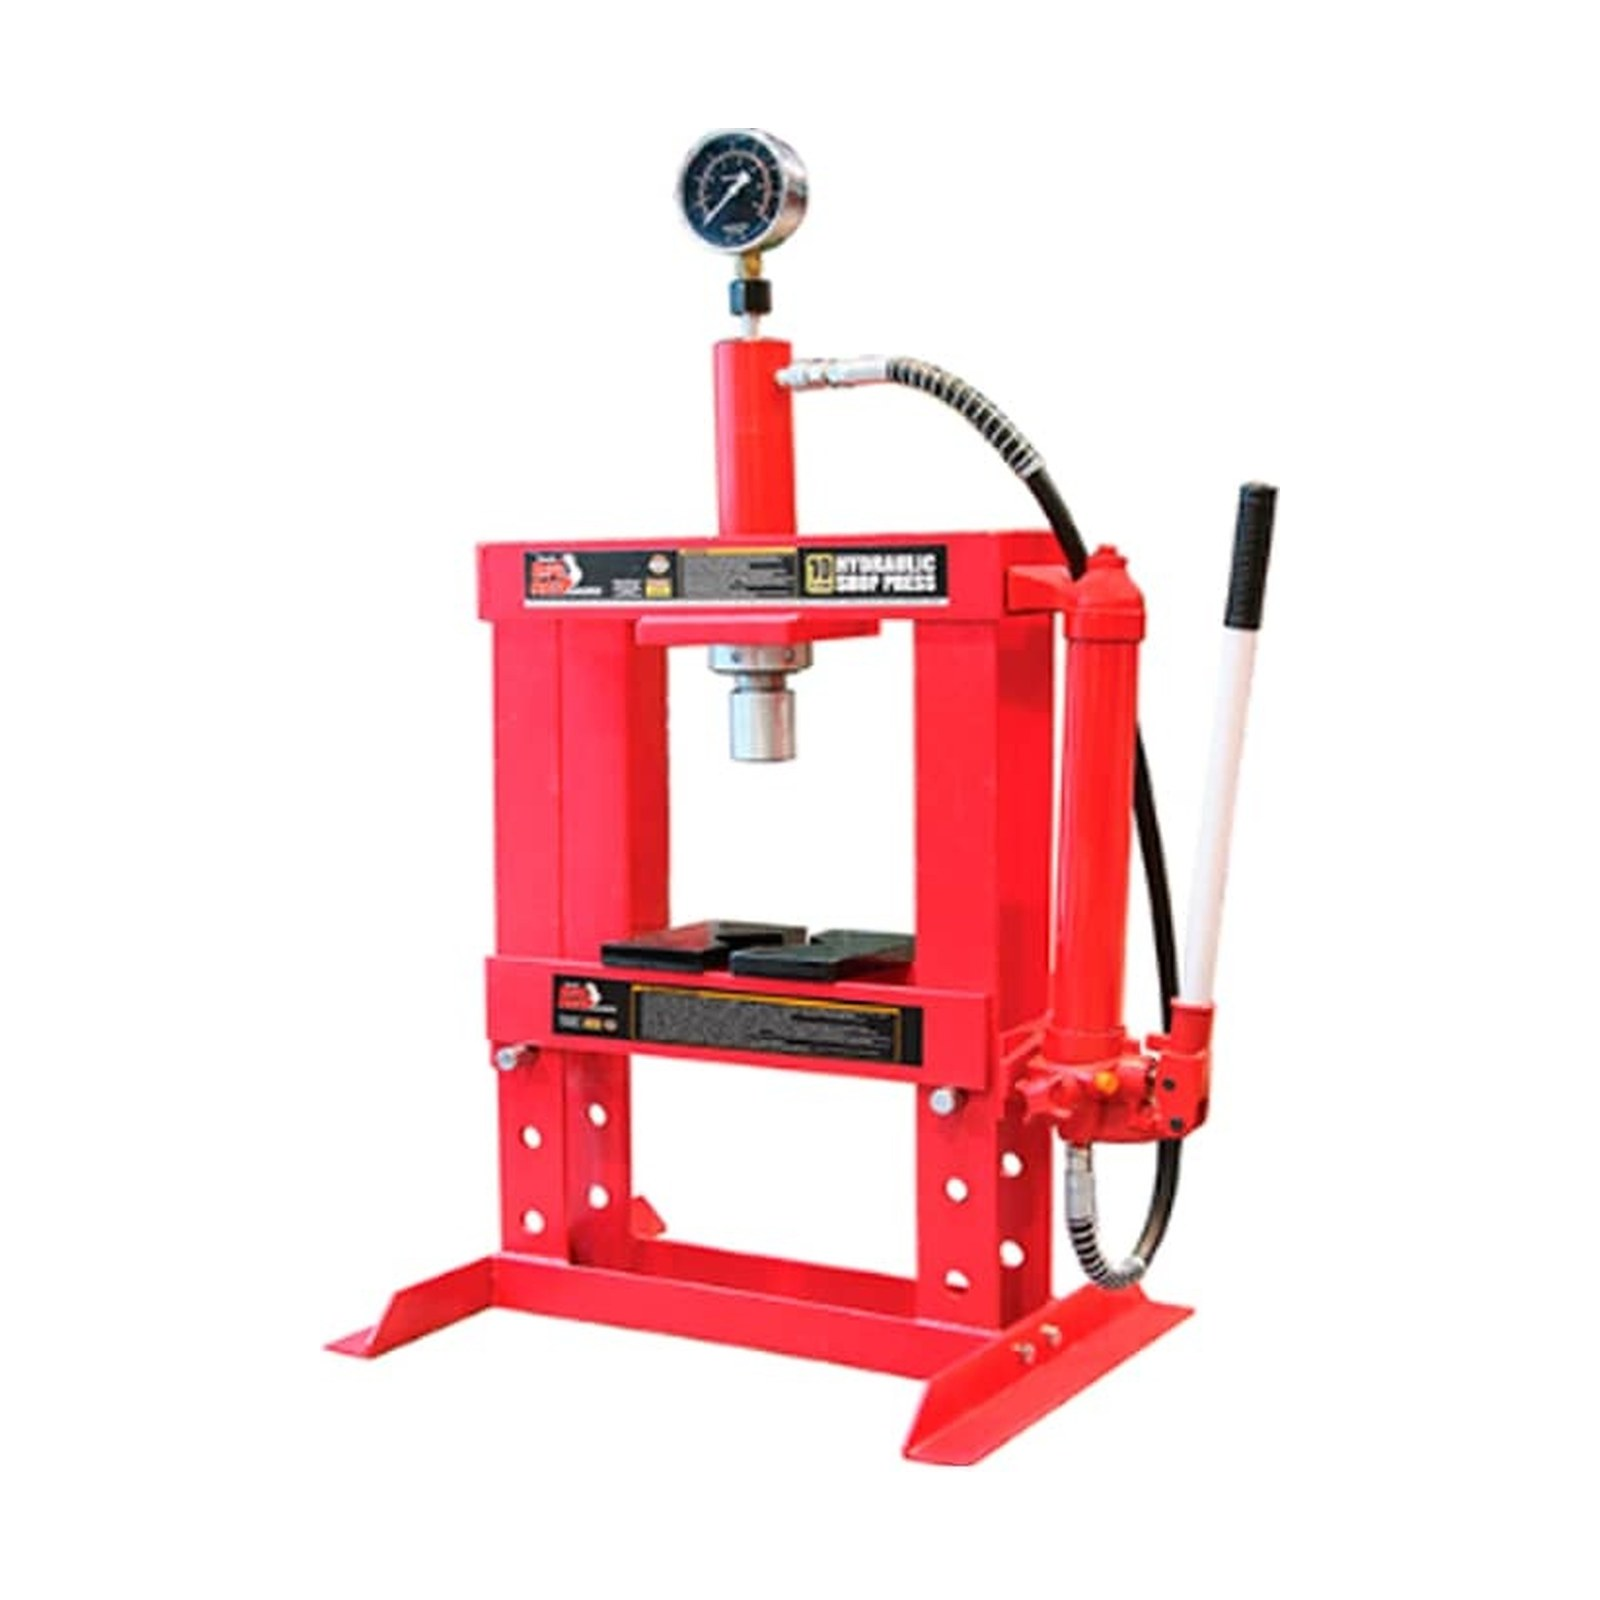
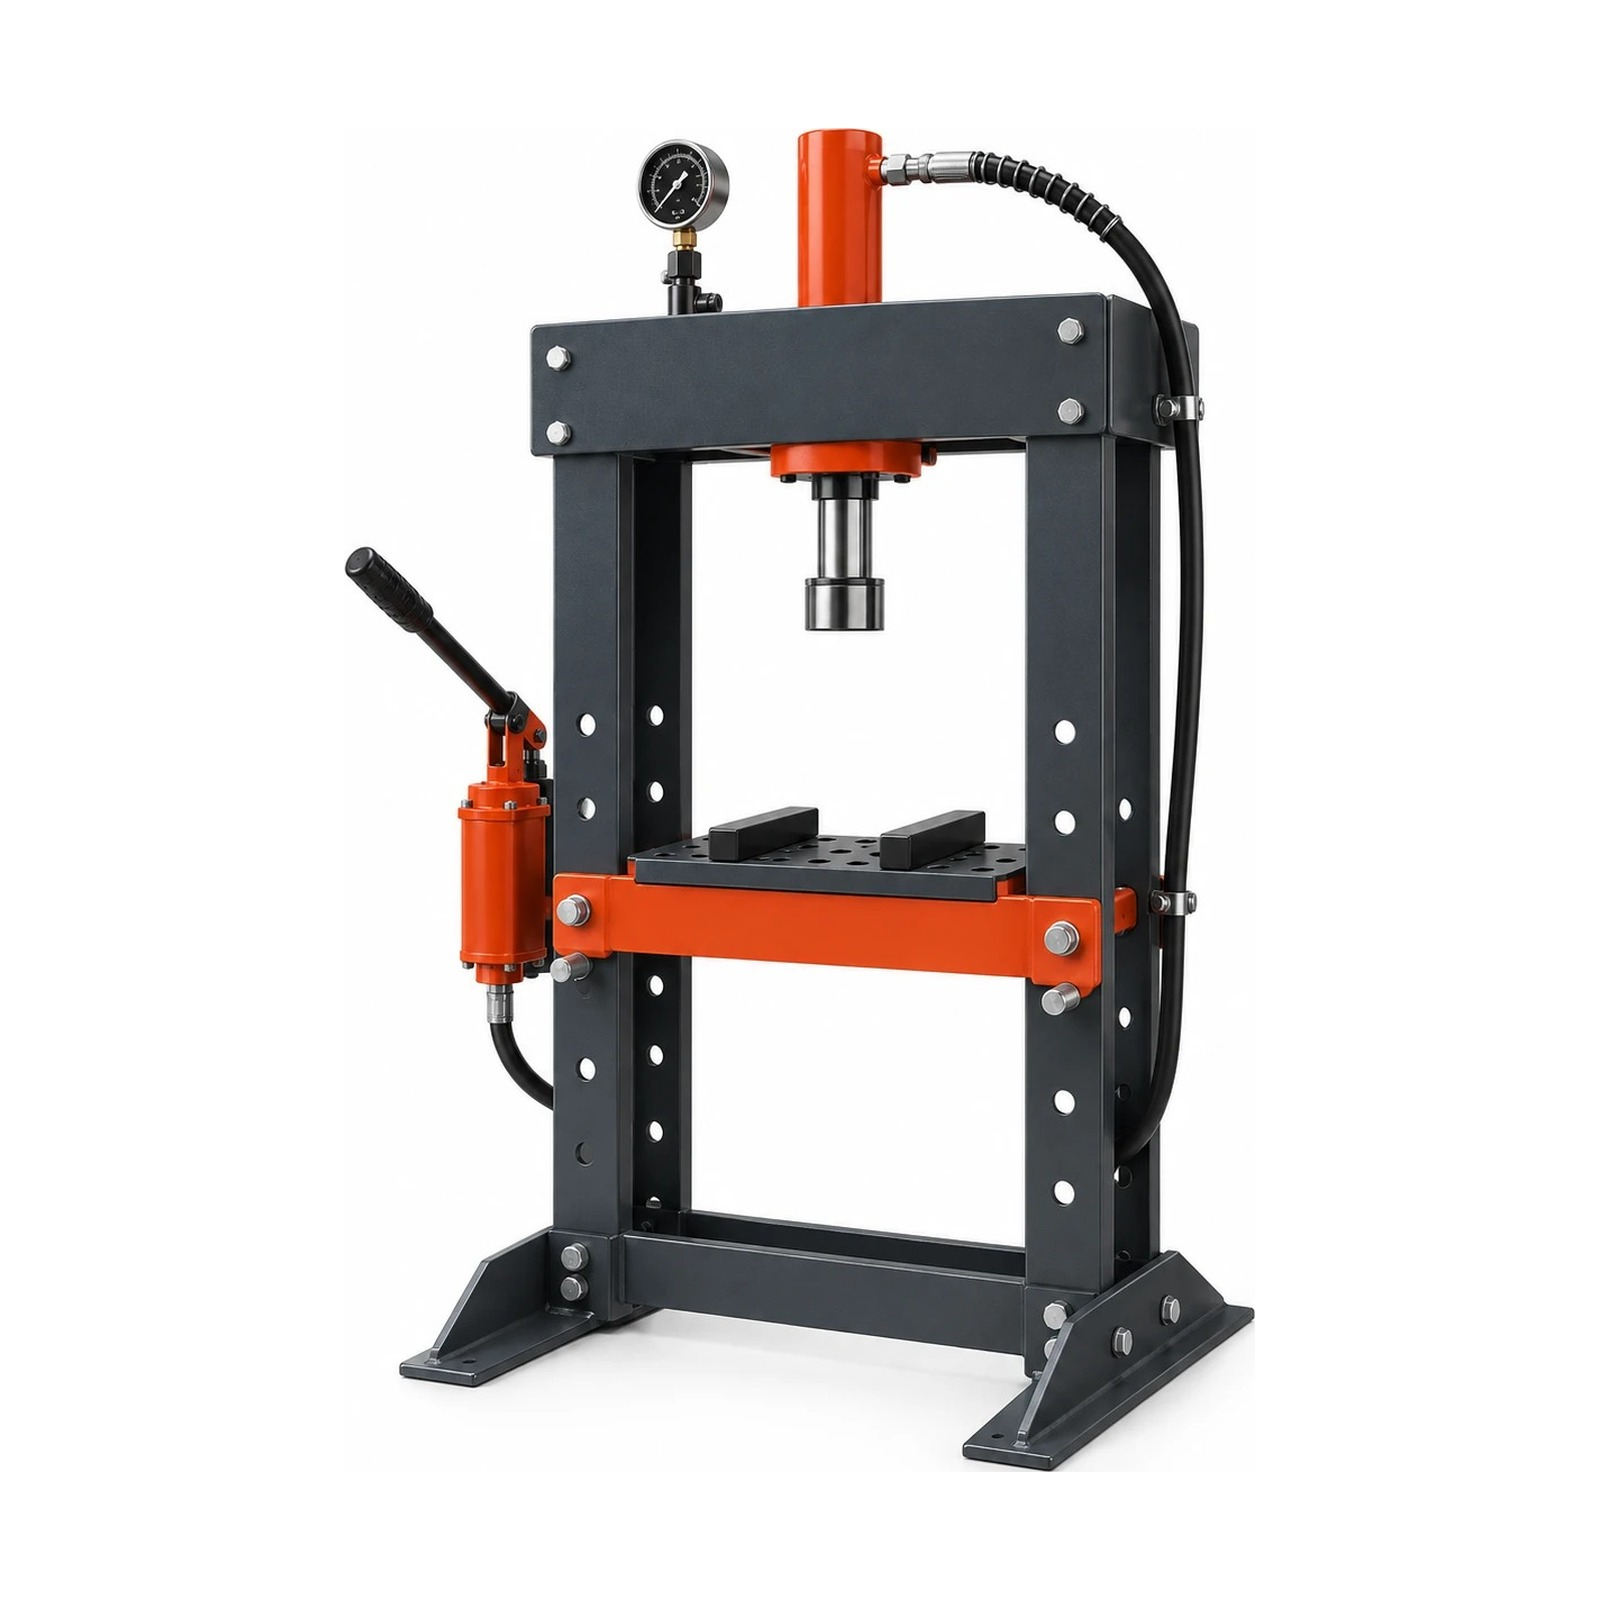
fix(prensas): quita prensa con compresor y prensa de taller del catálogo; nueva foto y descripción de la prensa 10 ton

Changed region(s): [[0.1875, 0.0625, 0.8125, 0.9375]]

diff --git a/src/data/catalogo.ts b/src/data/catalogo.ts
@@ -319,8 +319,6 @@ const fichasNuevas: Nuevo[] = [
   ['equipos-de-engrase', 'Equipos de engrase', 'lubricacion', 'engrase', 'Equipos de engrase: bombas, carrete retráctil y pistolas de engrase para flotas y talleres.'],
   ['llave-de-impacto-inalambrica-18v', 'Llave de impacto inalámbrica 18V', 'pistolas-de-impacto', undefined, 'Llave de impacto inalámbrica de 18 V para aflojar y ajustar tuercas sin cable ni compresor.'],
   ['llave-de-impacto-neumatica', 'Llave de impacto neumática', 'pistolas-de-impacto', undefined, 'Llave de impacto neumática para aflojar y ajustar tuercas de neumáticos y de alto torque.'],
-  ['prensa-con-compresor-de-resortes', 'Prensa con compresor de resortes', 'prensas-hidraulicas', undefined, 'Prensa hidráulica de taller con compresor de resortes para trabajos de suspensión.'],
-  ['prensa-hidraulica-de-taller', 'Prensa hidráulica de taller', 'prensas-hidraulicas', undefined, 'Prensa hidráulica de bastidor para montaje y desmontaje de rodamientos, bujes y piezas a presión.'],
   ['pluma-hidraulica-de-taller', 'Pluma hidráulica de taller', 'plumas-hidraulicas', undefined, 'Pluma hidráulica con base rodante para izar y trasladar motores y piezas pesadas en taller.'],
   ['plumas-plegables', 'Plumas plegables', 'plumas-hidraulicas', undefined, 'Plumas hidráulicas plegables que ocupan poco espacio al guardarlas.'],
 ];

diff --git a/src/data/equipos-taller.ts b/src/data/equipos-taller.ts
@@ -385,7 +385,7 @@ export const equiposTaller: Producto[] = [
     "familia": "hasta-20",
     "ref": "TY10003",
     "capacidad": "10 toneladas",
-    "resumen": "Prensa hidráulica 10 ton TY10003. Equipo para prensado hidráulico: montaje y desmontaje de rodamientos, bujes y piezas a presión. Consulta disponibilidad, garantía y precio.",
+    "resumen": "Prensa hidráulica de banco de 10 toneladas con bomba manual, manómetro y mesa regulable en altura. Ideal para montar y desmontar rodamientos, bujes y piezas a presión en taller.",
     "specs": [
       [
         "Capacidad",
